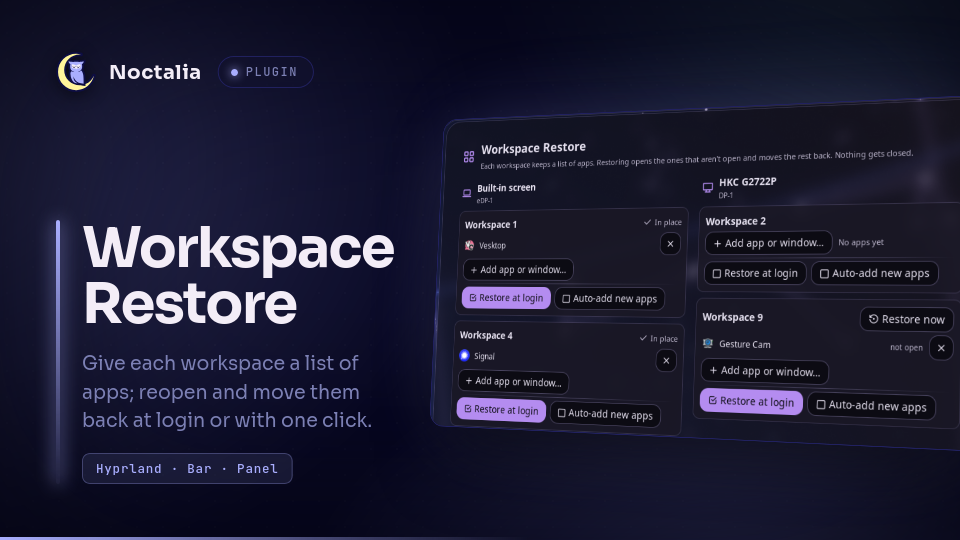
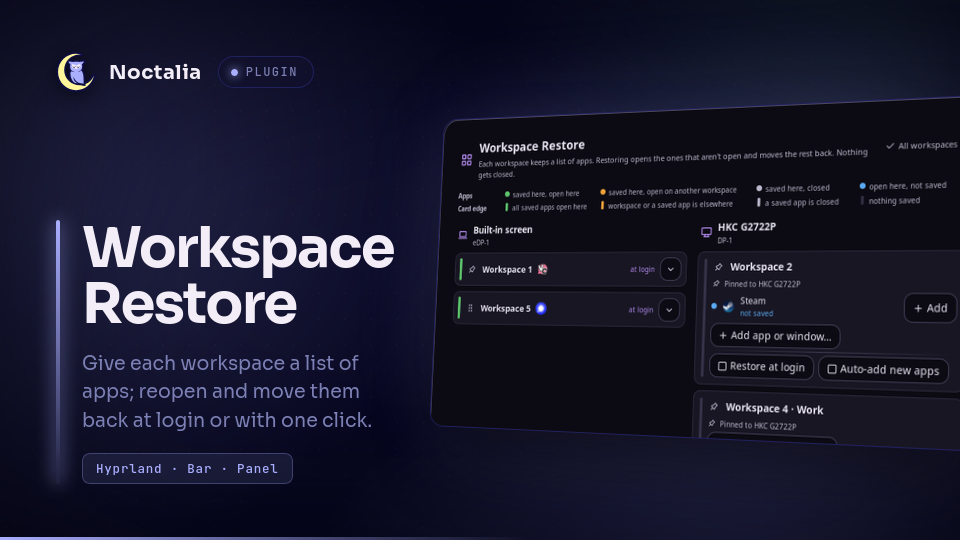
fix(panel): room for the scrollbar, rows for 4+ screens, aligned legend (1.2.1)
- Scrolling columns are narrowed so the scrollbar no longer covers the
  rightmost cards.
- With more than three screens the columns wrap into further rows instead
  of squeezing cards until titles and buttons get cut off.
- The two legend rows (Apps, Card edge) line up column by column.
- New README screenshot and community thumbnail for the 1.2 panel.

diff --git a/README.md b/README.md
@@ -26,7 +26,7 @@ Add the `bar` widget to a bar and click it, or open the panel with:
 noctalia msg panel-toggle soulmanyes/workspace-restore:panel
 ```
 
-The panel has one column per screen, left to right, showing each workspace on the screen it's on now. A workspace with nothing to do (every saved app open on it, nothing unsaved, on its screen) shows as one line with its app icons; the arrow shows it in full. With more workspaces than fit, the columns scroll. Each workspace that has saved apps or is open gets a card:
+The panel has one column per screen, left to right (three per row; a fourth screen starts a second row), showing each workspace on the screen it's on now. A workspace with nothing to do (every saved app open on it, nothing unsaved, on its screen) shows as one line with its app icons; the arrow shows it in full. With more workspaces than fit, the columns scroll. Each workspace that has saved apps or is open gets a card:
 
 - One list of apps, each with a coloured dot and a tag (a legend sits at the top):
   - green **open here**: saved here and open here
